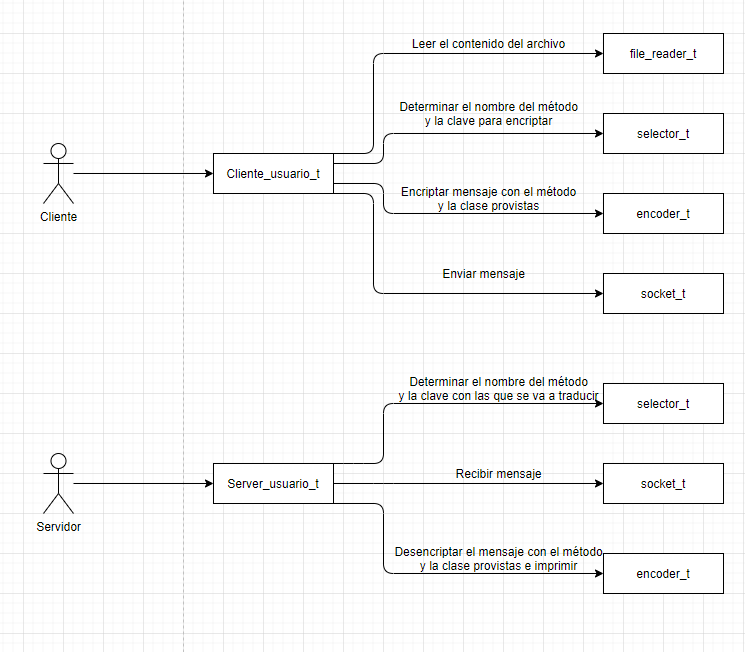
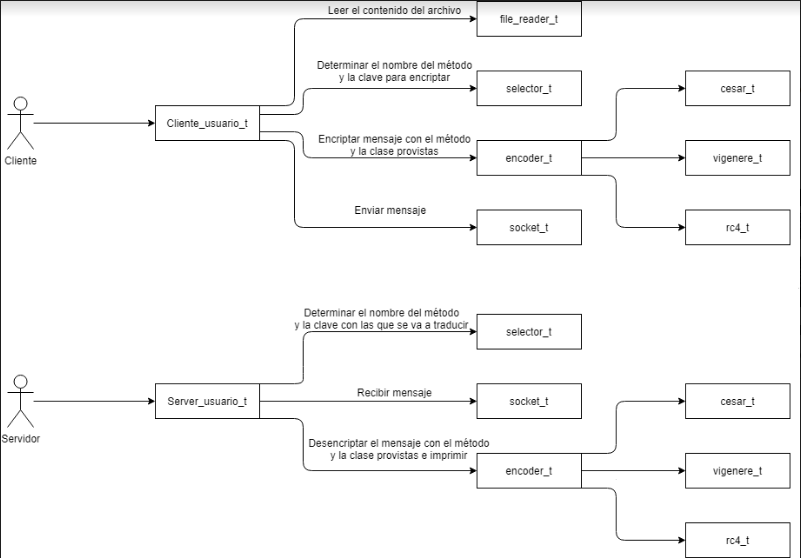
Revisada documentacion e informe

diff --git a/common_socket.h b/common_socket.h
@@ -16,7 +16,7 @@ typedef struct{
 //Funcion: Crea un tipo de dato socket
 //Pre condicion: El puerto y el host deben
 //existir previamente y deben estar correctamente escritos
-//Post condicion: Devuelve un puntero al socket
+//Post condicion: Devuelve 0 si no hay error, -1 en caso contrario
 int socket_create(socket_t* self, char* host, char* port, bool is);
 
 //Funcion: Envia mensaje de tamaño size al file_descriptor 
@@ -33,17 +33,19 @@ int socket_receive(socket_t* self, unsigned char* mensaje, size_t len);
 //Funcion: Acepta el socket con el que se quiere comunicar,
 //creando uno nuevo.
 //Pre condicion: Socket previamente creado.
-//Post condicion: Devuelve el socket aceptado.
+//Post condicion: Devuelve 0 si se pudo crear el socket
+//o -1 en caso de error
 int socket_accept(socket_t* accepted, socket_t* socket);
 
 //Funcion: Server recibe y acepta una conexion del cliente
 //Pre condicion: Socket previamente creado.
-//Post condicion: Devuelve 0 si no hubo error, -1 si lo hubo.
+//Post condicion: Devuelve 0 si no hubo error, -1 si lo hubo
 int socket_listen(socket_t* self);
 
 //Funcion: Destruye el socket
 //Pre condicion: Socket previamente creado
-//Post condicion: Memoria reservada liberada
+//Post condicion: Memoria reservada liberada,
+//devuelve 0 si no hay error, -1 en caso contrario
 int socket_destroy(socket_t* self);
 
 #endif

diff --git a/common_file_reader.h b/common_file_reader.h
@@ -12,19 +12,23 @@ typedef struct{
 
 //Funcion: Crea un tipo de dato file_reder.
 //Pre condicion: File previamente abierto.
-//Post condicion: Devuelve una referencia al file reader creado.
+//Post condicion: Ninguna
 void reader_create(reader_t* reader, FILE* file);
 
-//Funcion: Devuelve la lectura completa del archivo.
-//Pre condicion: File_reader previamente creado.
-//Post condicion: Devuelve un arreglo de unsigned chars
+//Funcion: Lee el archivo de tributo del reader
+//y lo copia en buffer
+//Pre condicion: File_reader previamente creado
+//Post condicion: Ninguna
 void reader_readFile(reader_t* self, unsigned char* buffer);
 
-//Funcion: Devuelve el tamanio de la lectura
-//Pre condicion: File_reader previamente creado.
+//Funcion: Devuelve si se llegó al final del archivo
+//Pre condicion: File_reader previamente creado
 //Post condicion: Ninguna
 bool reader_EOF(reader_t* self);
 
+//Funcion: Devuelve el tamanio de la lectura
+//Pre condicion: File_reader previamente creado
+//Post condicion: Reader previamente creado
 size_t reader_getRead(reader_t* self);
 
 #endif

diff --git a/common_encoder.h b/common_encoder.h
@@ -17,17 +17,18 @@ typedef struct{
 
 //Funcion: Crea un tipo de dato encoder
 //Pre condicion: Ninguna
-//Post condicion: Devuelve una referencia al encoder creado.
+//Post condicion: Devuelve 0 si no hubo error, -1 si lo hubo
 int encoder_create(encoder_t* self, char* method, char* key, bool is);
 
-//Funcion: Encripta o traduce el parámetro msje de tamaño size.
-//Pre condicion: Encoder previamente creado.
-//Post condicion: Ninguna
+//Funcion: Encripta o traduce el parámetro msje de tamaño size
+//Pre condicion: Encoder previamente creado
+//Post condicion: Devuelve 0 si no hubo error, -1 si lo hubo
 int encoder_run(encoder_t* self, unsigned char* msje, int size);
 
 //Funcion: Libera la memoria reservada para el encoder
 //Pre condicion: Encoder previamente creado.
-//Post condicion: Memoria liberada.
+//Post condicion: Memoria liberada,
+//devuelve 0 si no hubo error, -1 si lo hubo
 int encoder_destroy(encoder_t* self);
 
 #endif

diff --git a/server_usuario.h b/server_usuario.h
@@ -11,19 +11,19 @@ typedef struct{
     selector_t selector;
 }user_t;
 
-//Funcion: Crea un tipo de dato cliente usuario
 //Pre condicion: Ninguna
-//Post condicion: Devuelve una referencia al cliente_usuario creado.
+//Post condicion: Devuelve una referencia al cliente_usuario creado
+//o NULL en caso de algún error al alocar memoria o al crear los atributos.
 user_t* user_create(int argc, char *argv[]);
 
 //Funcion: Ejecuta el flujo del programa completo
 //Pre condicion: User previamente creado.
-//Post condicion: Ninguna
+//Post condicion: Devuelve -1 en caso de error, o 0 si no hubo errores.
 int user_run(user_t* user);
 
 //Funcion: Libera la memoria reservada.
 //Pre condicion: User previamente creado
-//Post condicion: Memoria liberada
+//Post condicion: Devuelve -1 en caso de error, o 0 si no hubo errores.
 int user_destroy(user_t* user);
 
 #endif

diff --git a/client_usuario.h b/client_usuario.h
@@ -14,18 +14,18 @@ typedef struct{
 
 //Funcion: Crea un tipo de dato cliente usuario
 //Pre condicion: Ninguna
-//Post condicion: Devuelve una referencia al cliente_usuario creado.
+//Post condicion: Devuelve una referencia al cliente_usuario creado
+//o NULL en caso de algún error al alocar memoria o al crear los atributos.
 user_t* user_create(int argc, char *argv[]);
 
 //Funcion: Ejecuta el flujo del programa completo
 //Pre condicion: User previamente creado.
-//Post condicion: Ninguna
+//Post condicion: Devuelve -1 en caso de error, o 0 si no hubo errores.
 int user_run(user_t* user);
 
 //Funcion: Libera la memoria reservada.
 //Pre condicion: User previamente creado
-//Post condicion: Memoria liberada
+//Post condicion: Devuelve -1 en caso de error, o 0 si no hubo errores.
 int user_destroy(user_t* user);
 
 #endif
-

diff --git a/common_selector.h b/common_selector.h
@@ -11,7 +11,7 @@ typedef struct{
 
 //Funcion: Crea un tipo de dato selector.
 //Pre condicion: Ninguna.
-//Post condicion: Devuelve una referencia al selector creado.
+//Post condicion: Devuelve 0 si no hubo error, -1 si lo hubo
 int selector_create(selector_t* self, char* argv_method, char* argv_key);
 
 //Funcion: Devuelve el método del selector.

diff --git a/common_vigenere.h b/common_vigenere.h
@@ -11,7 +11,7 @@ typedef struct{
     int pos;
 }vigenere_t;
 
-//Funcion: Crea un tipo de dato encoder
+//Funcion: Crea un tipo de dato encoder_vigenere
 //Pre condicion: Ninguna
 //Post condicion: Devuelve una referencia al encoder creado.
 vigenere_t* vigenere_create(char* key, bool is);

diff --git a/common_vigenere.c b/common_vigenere.c
@@ -8,7 +8,7 @@ vigenere_t* vigenere_create(char* key, bool is) {
 		self->is_crypter = is;
 		self->pos = 0;
 	} else {
-		printf("Vigenere: Fallo al alocar memoria%s\n", strerror(errno));
+		printf("Vigenere: Fallo al alocar memoria %s\n", strerror(errno));
 	}
 	return self;
 }

diff --git a/README.md b/README.md
@@ -78,16 +78,45 @@ Las responsabilidades del programa se dividieron en los siguientes TDAs:
 - Encoder:
 -	Descripción:
 		Recibe el mensaje a codificar, el método y la clave correspondientes,
-		y encripta o traduce de acuerdo a los argumentos recibidos.
+		crea el TDA correspondiente al método y le pasa la clave. Luego, al
+		recibir un mensaje a codificar, llama a la instancia del método elegido
+		y le delega el proceso de encriptación o traducción.
 -	Pre condición:
 		Sólo soporta métodos Cesar, Vigenere y RC4.
 -	Post condición:
 		Ninguna.
 
+- Encoder_cesar:
+-	Descripción:
+		Recibe el mensaje a codificar, el método y la clave correspondientes,
+		y encripta o traduce de acuerdo a los argumentos recibidos.
+-	Pre condición:
+		Ninguna.
+-	Post condición:
+		Ninguna.
+
+- Encoder_vigenere:
+-	Descripción:
+		Recibe el mensaje a codificar, y la clave correspondiente,
+		y encripta o traduce el primero de acuerdo al valor de la última.
+-	Pre condición:
+		Ninguna.
+-	Post condición:
+		Ninguna.
+
+- Encoder_rc4:
+-	Descripción:
+		Recibe el mensaje a codificar, y la clave correspondiente,
+		y encripta o traduce el primero de acuerdo al valor de la última.
+-	Pre condición:
+		Ninguna.
+-	Post condición:
+		Ninguna.
+
 - Socket:
 -	Descripción:
-		Recibe puerto si es server, o puerto y host si es cliente, y devuelve
-		un socket con el que recibir o enviar mensajes respectivamente.
+		Recibe el mensaje a codificar, y la clave correspondiente,
+		y encripta o traduce el primero de acuerdo al valor de la última.
 -	Pre condición:
 		Ninguna.
 -	Post condición:
